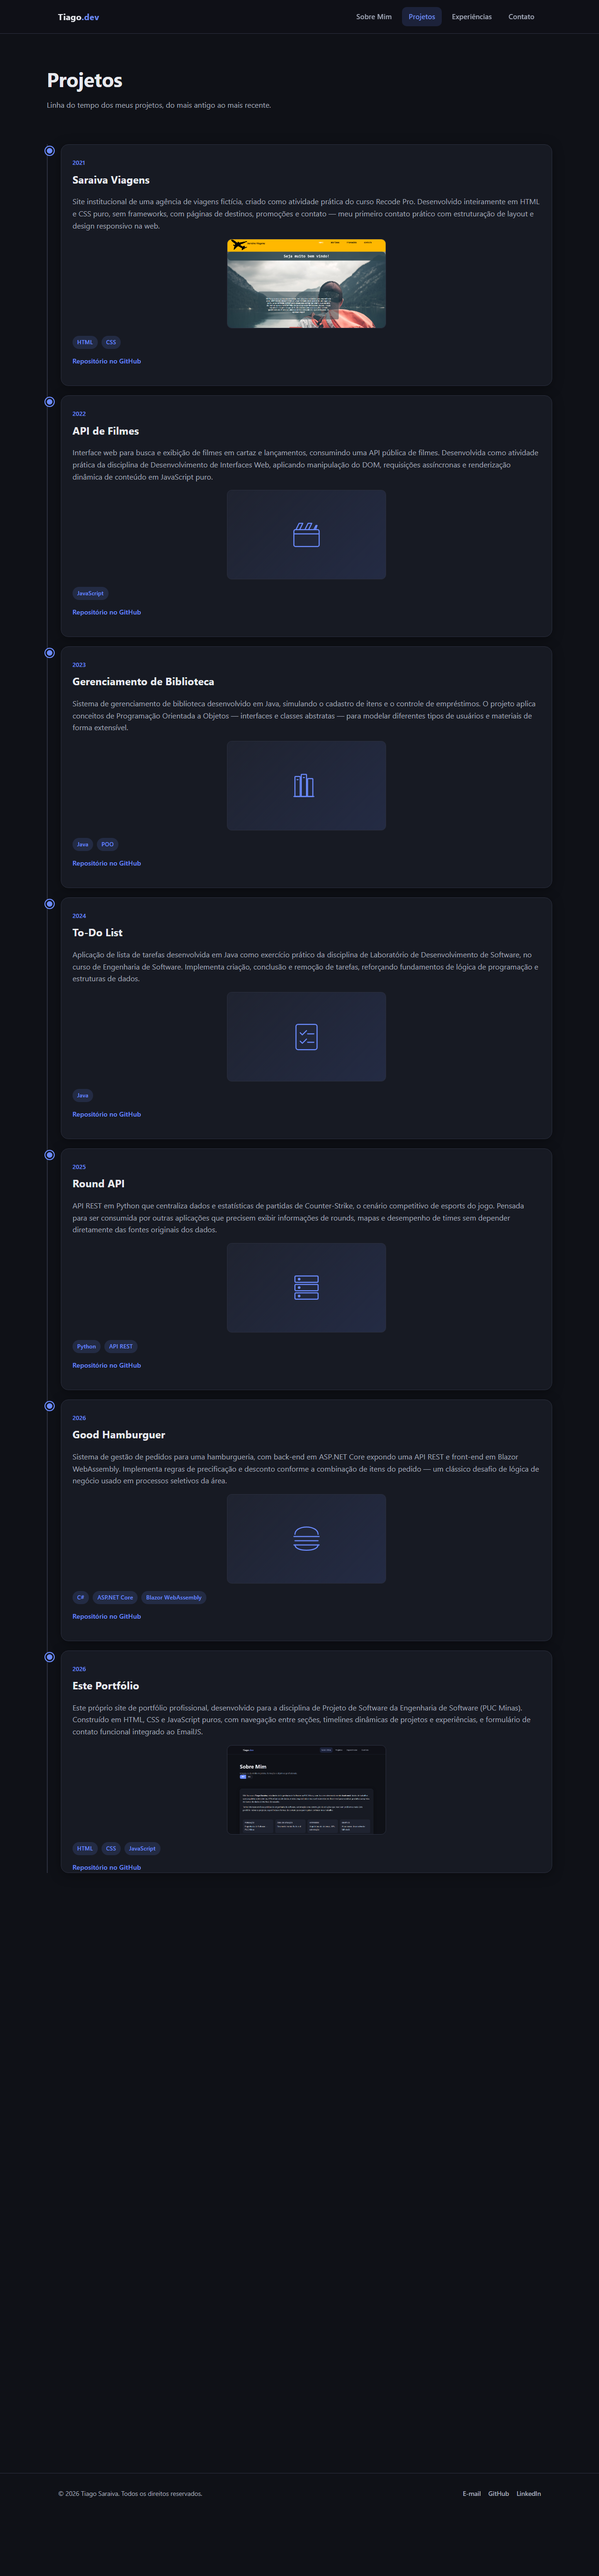
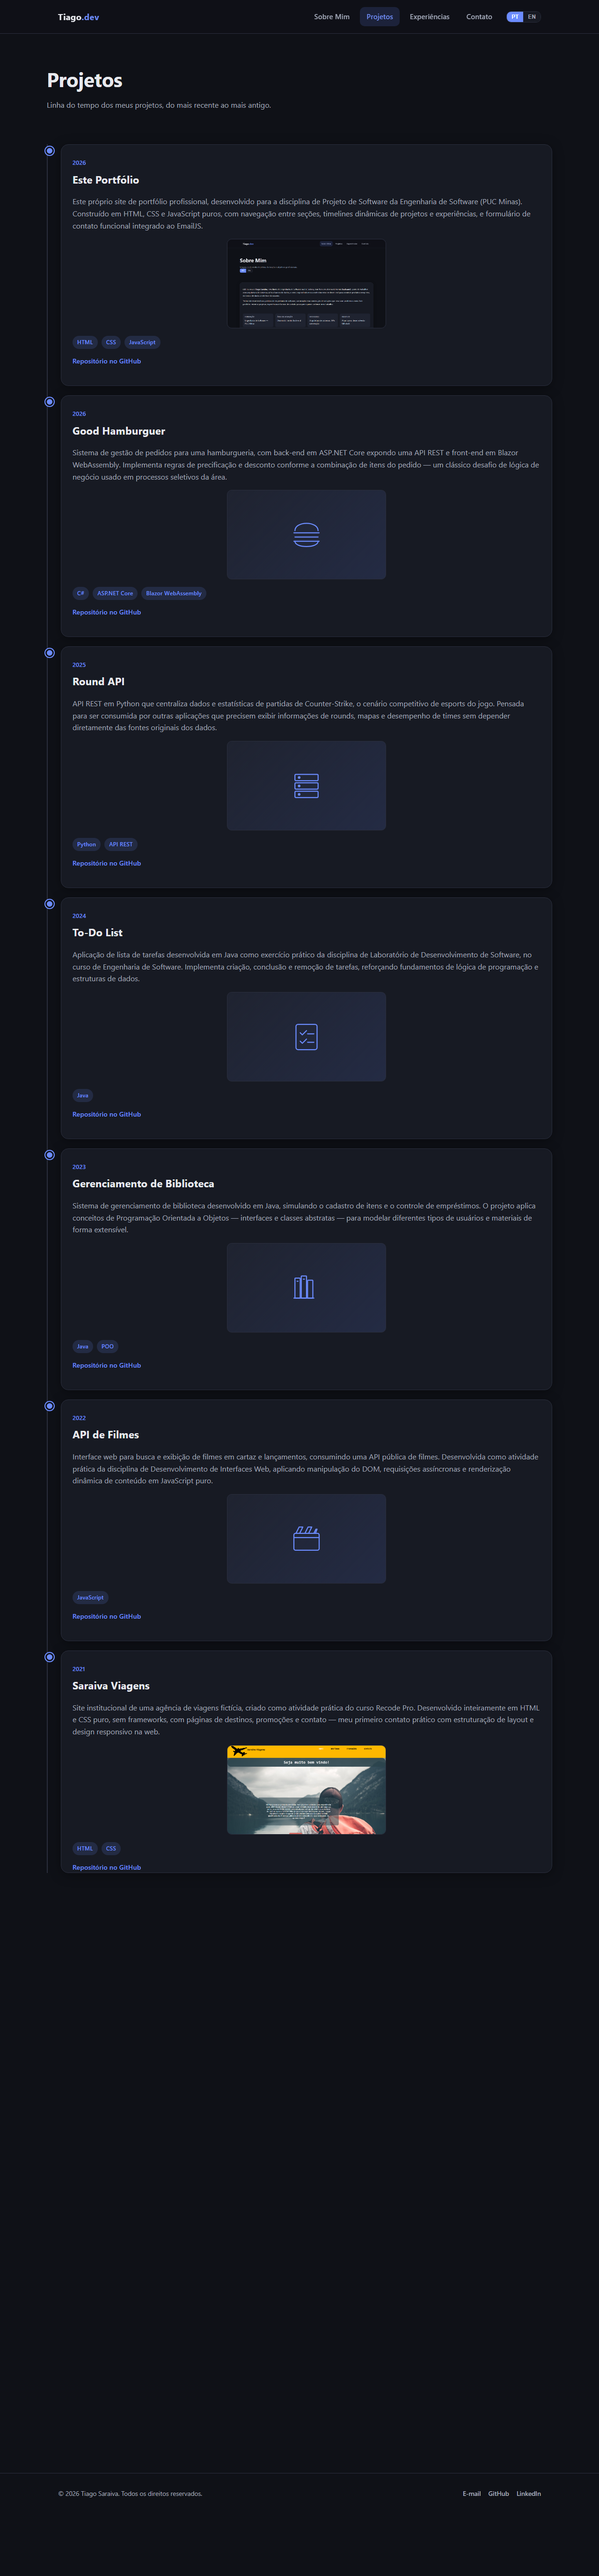
fix: inverte ordem da timeline de Projetos (mais recente primeiro)
Alinha com a ordem ja usada em Experiencias. Atualiza o subtitulo da
pagina (PT/EN) e o screenshot do README.

diff --git a/js/main.js b/js/main.js
@@ -25,7 +25,7 @@ const translations = {
     'about.objetivo.value': 'Evoluir como Engenheiro de Software, aprofundando atuação em arquitetura de sistemas distribuídos',
 
     'projetos.title': 'Projetos',
-    'projetos.subtitle': 'Linha do tempo dos meus projetos, do mais antigo ao mais recente.',
+    'projetos.subtitle': 'Linha do tempo dos meus projetos, do mais recente ao mais antigo.',
     'projetos.repoLink': 'Repositório no GitHub',
 
     'experiencias.title': 'Experiências',
@@ -78,7 +78,7 @@ const translations = {
     'about.objetivo.value': 'Grow as a Software Engineer, deepening my work in distributed systems architecture',
 
     'projetos.title': 'Projects',
-    'projetos.subtitle': 'Timeline of my projects, from oldest to most recent.',
+    'projetos.subtitle': 'Timeline of my projects, from most recent to oldest.',
     'projetos.repoLink': 'GitHub Repository',
 
     'experiencias.title': 'Experience',
@@ -153,59 +153,15 @@ const projectIcons = {
 
 const projectsData = [
   {
-    period: '2021',
-    name: { pt: 'Saraiva Viagens', en: 'Saraiva Viagens' },
+    period: '2026',
+    name: { pt: 'Este Portfólio', en: 'This Portfolio' },
     description: {
-      pt: 'Site institucional de uma agência de viagens fictícia, criado como atividade prática do curso Recode Pro. Desenvolvido inteiramente em HTML e CSS puro, sem frameworks, com páginas de destinos, promoções e contato — meu primeiro contato prático com estruturação de layout e design responsivo na web.',
-      en: 'Corporate website for a fictional travel agency, built as a hands-on project for the Recode Pro course. Developed entirely in plain HTML and CSS, with pages for destinations, promotions and contact — my first hands-on experience structuring web layout and responsive design.',
+      pt: 'Este próprio site de portfólio profissional, desenvolvido para a disciplina de Projeto de Software da Engenharia de Software (PUC Minas). Construído em HTML, CSS e JavaScript puros, com navegação entre seções, timelines dinâmicas de projetos e experiências, e formulário de contato funcional integrado ao EmailJS.',
+      en: 'This very professional portfolio website, built for the Software Project course in the Software Engineering program (PUC Minas). Built with plain HTML, CSS and JavaScript, featuring section navigation, dynamic project and experience timelines, and a working contact form integrated with EmailJS.',
     },
-    image: 'saraiva-viagens.png',
-    techs: { pt: ['HTML', 'CSS'], en: ['HTML', 'CSS'] },
-    repo: 'https://github.com/tiagosaraivadev/Saraiva-Viagens',
-  },
-  {
-    period: '2022',
-    name: { pt: 'API de Filmes', en: 'Movie API' },
-    description: {
-      pt: 'Interface web para busca e exibição de filmes em cartaz e lançamentos, consumindo uma API pública de filmes. Desenvolvida como atividade prática da disciplina de Desenvolvimento de Interfaces Web, aplicando manipulação do DOM, requisições assíncronas e renderização dinâmica de conteúdo em JavaScript puro.',
-      en: 'Web interface for searching and displaying now-showing and upcoming movies, consuming a public movie API. Built as a hands-on activity for the Web Interface Development course, applying DOM manipulation, async requests and dynamic content rendering in plain JavaScript.',
-    },
-    illustration: 'film',
-    techs: { pt: ['JavaScript'], en: ['JavaScript'] },
-    repo: 'https://github.com/tiagosaraivadev/api-filmes',
-  },
-  {
-    period: '2023',
-    name: { pt: 'Gerenciamento de Biblioteca', en: 'Library Management' },
-    description: {
-      pt: 'Sistema de gerenciamento de biblioteca desenvolvido em Java, simulando o cadastro de itens e o controle de empréstimos. O projeto aplica conceitos de Programação Orientada a Objetos — interfaces e classes abstratas — para modelar diferentes tipos de usuários e materiais de forma extensível.',
-      en: 'Library management system built in Java, simulating item registration and loan control. The project applies Object-Oriented Programming concepts — interfaces and abstract classes — to model different types of users and materials in an extensible way.',
-    },
-    illustration: 'library',
-    techs: { pt: ['Java', 'POO'], en: ['Java', 'OOP'] },
-    repo: 'https://github.com/tiagosaraivadev/gerenciamentoBiblioteca',
-  },
-  {
-    period: '2024',
-    name: { pt: 'To-Do List', en: 'To-Do List' },
-    description: {
-      pt: 'Aplicação de lista de tarefas desenvolvida em Java como exercício prático da disciplina de Laboratório de Desenvolvimento de Software, no curso de Engenharia de Software. Implementa criação, conclusão e remoção de tarefas, reforçando fundamentos de lógica de programação e estruturas de dados.',
-      en: 'To-do list application built in Java as a hands-on exercise for the Software Development Laboratory course, part of the Software Engineering program. Implements creating, completing and removing tasks, reinforcing programming logic and data structure fundamentals.',
-    },
-    illustration: 'checklist',
-    techs: { pt: ['Java'], en: ['Java'] },
-    repo: 'https://github.com/tiagosaraivadev/to-do-list',
-  },
-  {
-    period: '2025',
-    name: { pt: 'Round API', en: 'Round API' },
-    description: {
-      pt: 'API REST em Python que centraliza dados e estatísticas de partidas de Counter-Strike, o cenário competitivo de esports do jogo. Pensada para ser consumida por outras aplicações que precisem exibir informações de rounds, mapas e desempenho de times sem depender diretamente das fontes originais dos dados.',
-      en: "REST API in Python that centralizes Counter-Strike match data and statistics, the game's competitive esports scene. Designed to be consumed by other applications that need to display round, map and team performance information without depending directly on the original data sources.",
-    },
-    illustration: 'api',
-    techs: { pt: ['Python', 'API REST'], en: ['Python', 'REST API'] },
-    repo: 'https://github.com/tiagosaraivadev/round-api',
+    image: 'portfolio.png',
+    techs: { pt: ['HTML', 'CSS', 'JavaScript'], en: ['HTML', 'CSS', 'JavaScript'] },
+    repo: 'https://github.com/tiagosaraivadev/portfolio',
   },
   {
     period: '2026',
@@ -219,15 +175,59 @@ const projectsData = [
     repo: 'https://github.com/tiagosaraivadev/GoodHamburguer',
   },
   {
-    period: '2026',
-    name: { pt: 'Este Portfólio', en: 'This Portfolio' },
+    period: '2025',
+    name: { pt: 'Round API', en: 'Round API' },
     description: {
-      pt: 'Este próprio site de portfólio profissional, desenvolvido para a disciplina de Projeto de Software da Engenharia de Software (PUC Minas). Construído em HTML, CSS e JavaScript puros, com navegação entre seções, timelines dinâmicas de projetos e experiências, e formulário de contato funcional integrado ao EmailJS.',
-      en: 'This very professional portfolio website, built for the Software Project course in the Software Engineering program (PUC Minas). Built with plain HTML, CSS and JavaScript, featuring section navigation, dynamic project and experience timelines, and a working contact form integrated with EmailJS.',
+      pt: 'API REST em Python que centraliza dados e estatísticas de partidas de Counter-Strike, o cenário competitivo de esports do jogo. Pensada para ser consumida por outras aplicações que precisem exibir informações de rounds, mapas e desempenho de times sem depender diretamente das fontes originais dos dados.',
+      en: "REST API in Python that centralizes Counter-Strike match data and statistics, the game's competitive esports scene. Designed to be consumed by other applications that need to display round, map and team performance information without depending directly on the original data sources.",
     },
-    image: 'portfolio.png',
-    techs: { pt: ['HTML', 'CSS', 'JavaScript'], en: ['HTML', 'CSS', 'JavaScript'] },
-    repo: 'https://github.com/tiagosaraivadev/portfolio',
+    illustration: 'api',
+    techs: { pt: ['Python', 'API REST'], en: ['Python', 'REST API'] },
+    repo: 'https://github.com/tiagosaraivadev/round-api',
+  },
+  {
+    period: '2024',
+    name: { pt: 'To-Do List', en: 'To-Do List' },
+    description: {
+      pt: 'Aplicação de lista de tarefas desenvolvida em Java como exercício prático da disciplina de Laboratório de Desenvolvimento de Software, no curso de Engenharia de Software. Implementa criação, conclusão e remoção de tarefas, reforçando fundamentos de lógica de programação e estruturas de dados.',
+      en: 'To-do list application built in Java as a hands-on exercise for the Software Development Laboratory course, part of the Software Engineering program. Implements creating, completing and removing tasks, reinforcing programming logic and data structure fundamentals.',
+    },
+    illustration: 'checklist',
+    techs: { pt: ['Java'], en: ['Java'] },
+    repo: 'https://github.com/tiagosaraivadev/to-do-list',
+  },
+  {
+    period: '2023',
+    name: { pt: 'Gerenciamento de Biblioteca', en: 'Library Management' },
+    description: {
+      pt: 'Sistema de gerenciamento de biblioteca desenvolvido em Java, simulando o cadastro de itens e o controle de empréstimos. O projeto aplica conceitos de Programação Orientada a Objetos — interfaces e classes abstratas — para modelar diferentes tipos de usuários e materiais de forma extensível.',
+      en: 'Library management system built in Java, simulating item registration and loan control. The project applies Object-Oriented Programming concepts — interfaces and abstract classes — to model different types of users and materials in an extensible way.',
+    },
+    illustration: 'library',
+    techs: { pt: ['Java', 'POO'], en: ['Java', 'OOP'] },
+    repo: 'https://github.com/tiagosaraivadev/gerenciamentoBiblioteca',
+  },
+  {
+    period: '2022',
+    name: { pt: 'API de Filmes', en: 'Movie API' },
+    description: {
+      pt: 'Interface web para busca e exibição de filmes em cartaz e lançamentos, consumindo uma API pública de filmes. Desenvolvida como atividade prática da disciplina de Desenvolvimento de Interfaces Web, aplicando manipulação do DOM, requisições assíncronas e renderização dinâmica de conteúdo em JavaScript puro.',
+      en: 'Web interface for searching and displaying now-showing and upcoming movies, consuming a public movie API. Built as a hands-on activity for the Web Interface Development course, applying DOM manipulation, async requests and dynamic content rendering in plain JavaScript.',
+    },
+    illustration: 'film',
+    techs: { pt: ['JavaScript'], en: ['JavaScript'] },
+    repo: 'https://github.com/tiagosaraivadev/api-filmes',
+  },
+  {
+    period: '2021',
+    name: { pt: 'Saraiva Viagens', en: 'Saraiva Viagens' },
+    description: {
+      pt: 'Site institucional de uma agência de viagens fictícia, criado como atividade prática do curso Recode Pro. Desenvolvido inteiramente em HTML e CSS puro, sem frameworks, com páginas de destinos, promoções e contato — meu primeiro contato prático com estruturação de layout e design responsivo na web.',
+      en: 'Corporate website for a fictional travel agency, built as a hands-on project for the Recode Pro course. Developed entirely in plain HTML and CSS, with pages for destinations, promotions and contact — my first hands-on experience structuring web layout and responsive design.',
+    },
+    image: 'saraiva-viagens.png',
+    techs: { pt: ['HTML', 'CSS'], en: ['HTML', 'CSS'] },
+    repo: 'https://github.com/tiagosaraivadev/Saraiva-Viagens',
   },
 ];
 

diff --git a/README.md b/README.md
@@ -16,7 +16,7 @@ quatro seções acessadas por um menu de navegação. Todo o conteúdo (nav, tex
 Projetos/Experiências e formulário) tem toggle **PT/EN** no cabeçalho, disponível nas 4 páginas:
 
 - **Sobre Mim** — apresentação profissional, formação e objetivos.
-- **Projetos** — linha do tempo de projetos, do mais antigo ao mais recente.
+- **Projetos** — linha do tempo de projetos, do mais recente ao mais antigo.
 - **Experiências** — trajetória profissional, do vínculo mais recente ao mais antigo.
 - **Contato** — ícones para e-mail/LinkedIn/GitHub e formulário de contato funcional.
 
